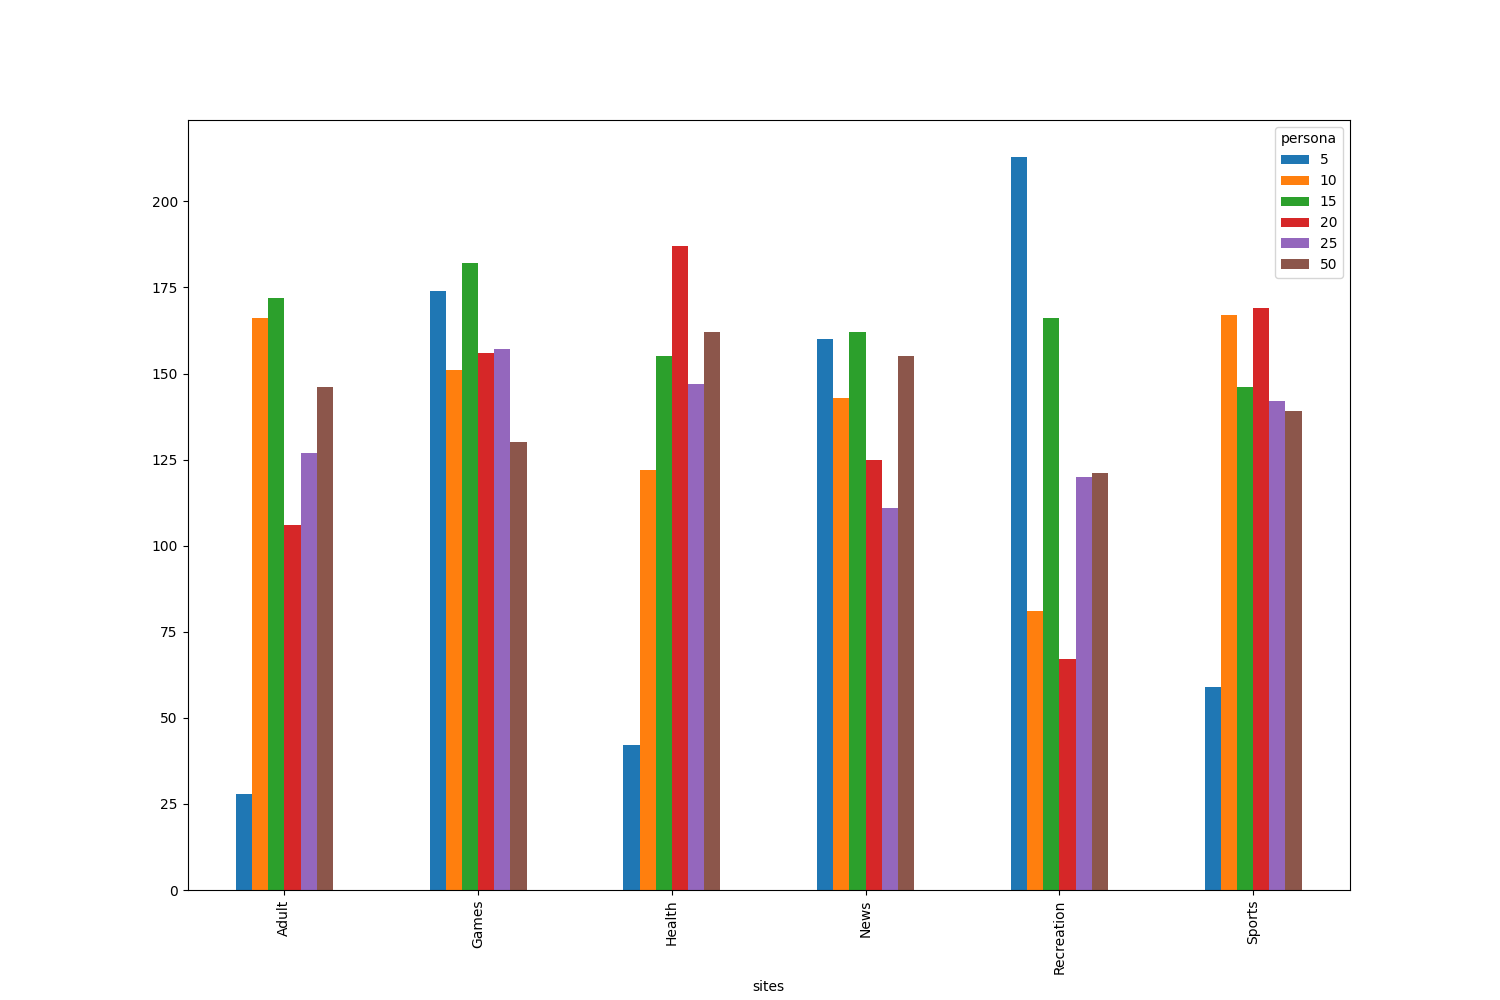
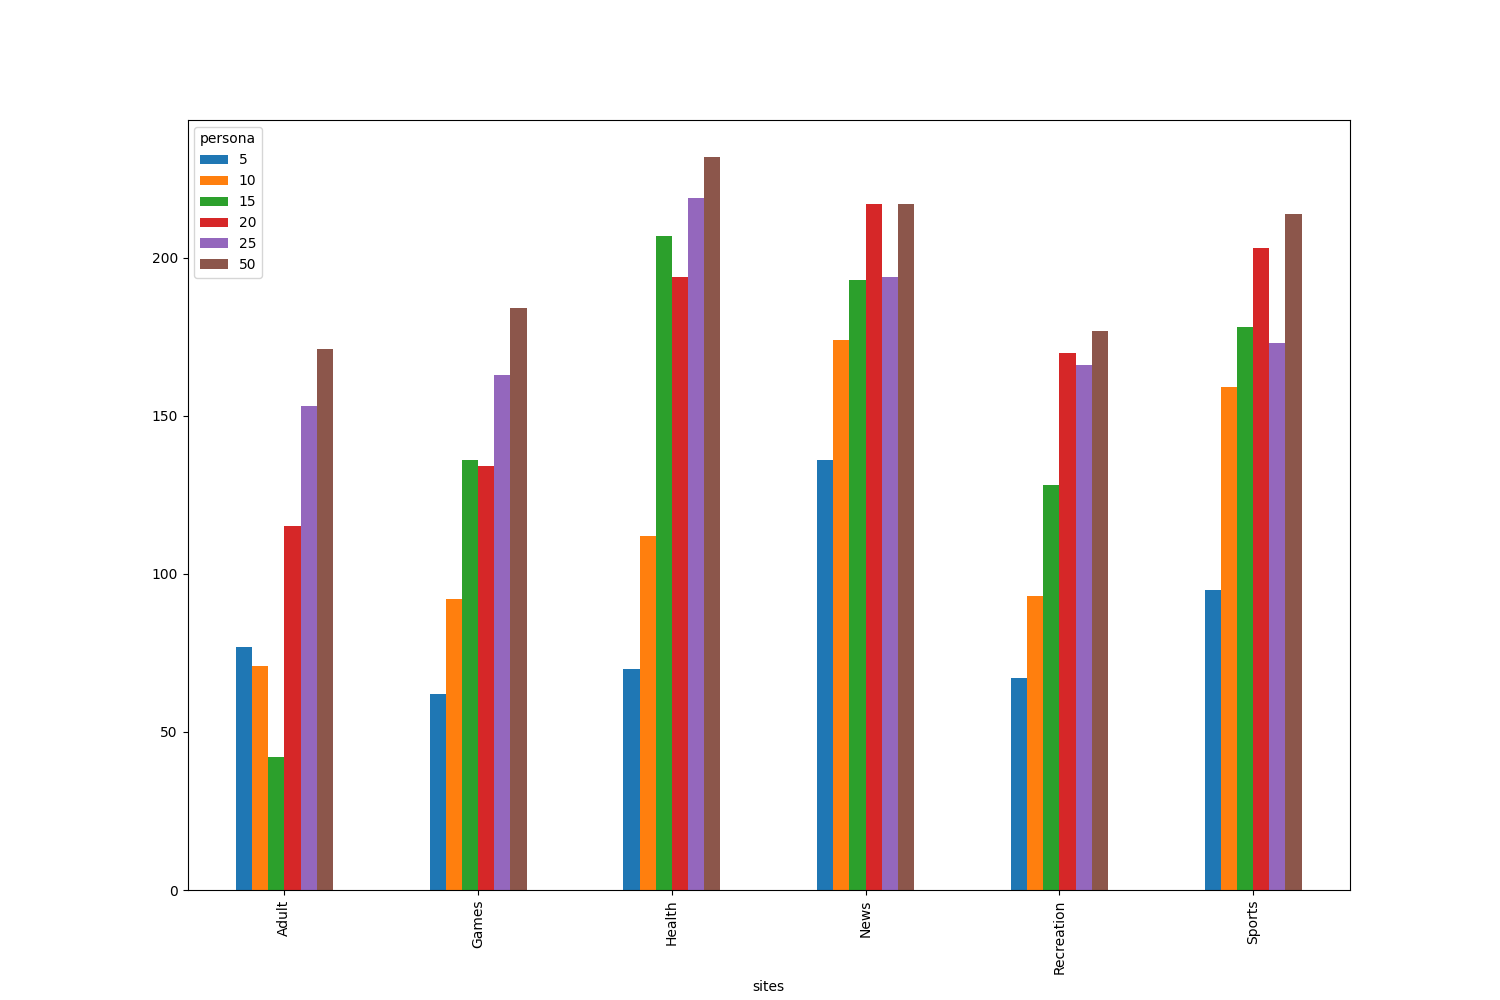
new graph

diff --git a/flask/vizualize.py b/flask/vizualize.py
@@ -12,7 +12,7 @@ x = []
 
 # x = [ [persona name, site num, val] , [persona name, site num, val] , [persona name, site num, val] ]
 
-with open('run4_2021-01-24_final.json','r') as file:
+with open('run5_2021-01-27_final.json','r') as file:
 	data = json.load(file)
 
 for item in data:
